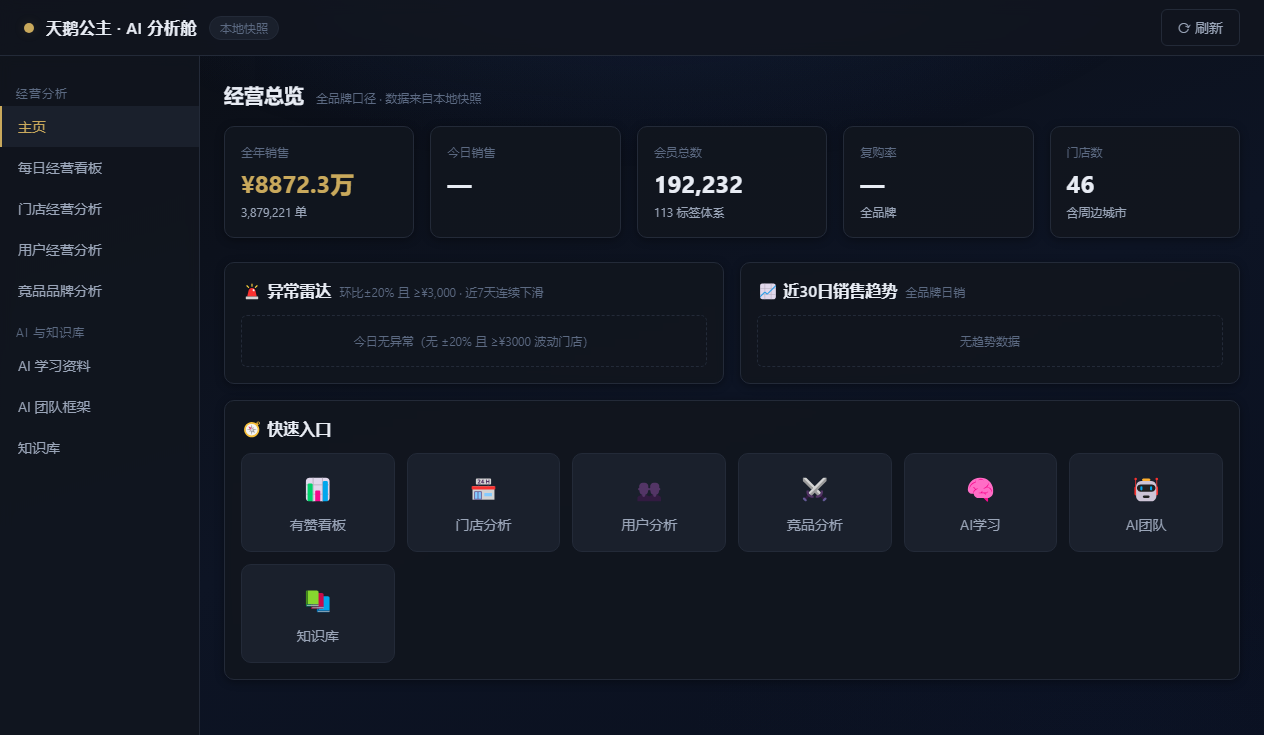
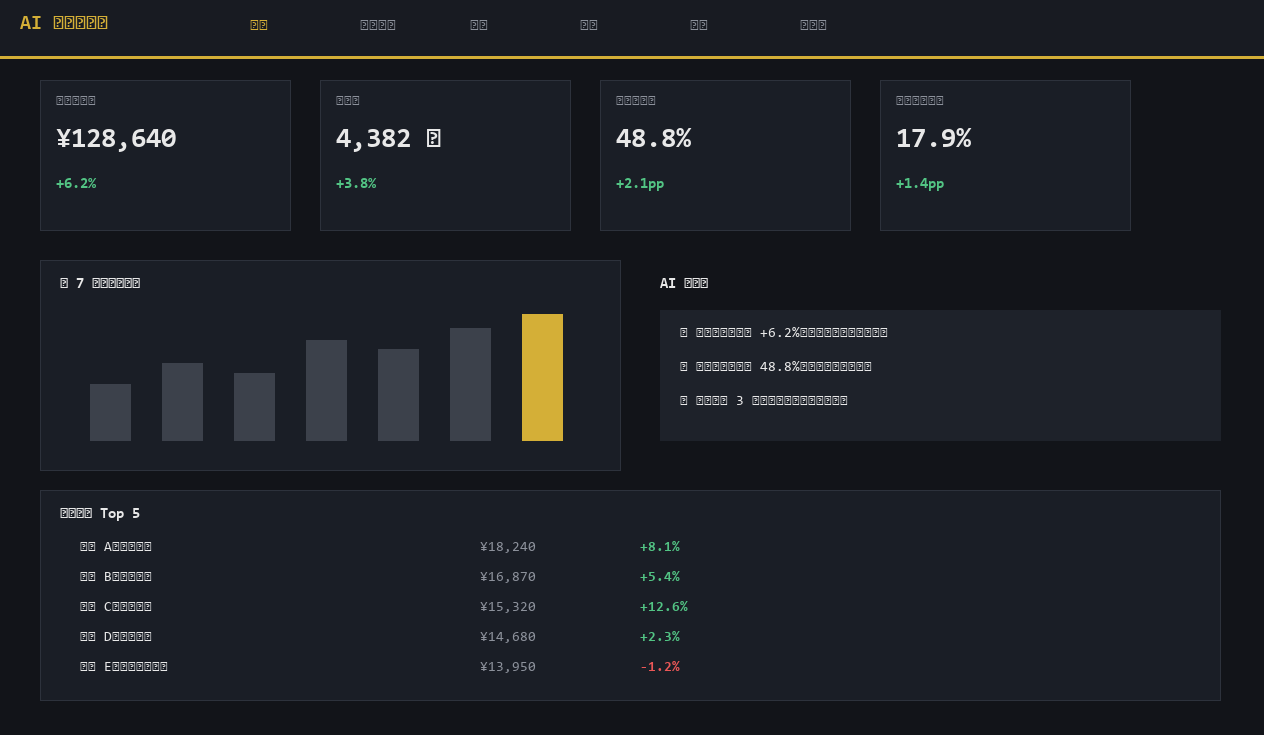
docs: replace demo screenshots with sanitized illustrations (remove real brand/competitor/city data); update captions

diff --git a/index.html b/index.html
@@ -409,29 +409,29 @@
         <div class="section-header">
             <span class="section-tag">LIVE DEMO</span>
             <h2>实际运行效果</h2>
-            <p>终端与桌面端真实截图——不是 PPT 演示，是真在跑的</p>
+            <p>生产工具界面示意（数据已脱敏）——不是 PPT 演示，是每天在跑的系统</p>
         </div>
 
         <div class="demo-grid">
             <div class="demo-shot">
-                <img src="assets/gateway-stats.png" alt="sensenova-gateway stats 真实终端输出">
+                <img src="assets/gateway-stats.png" alt="sensenova-gateway 网关负载示意（数据脱敏）">
                 <div class="demo-caption">
                     <span class="demo-label">sensenova-gateway</span>
-                    <span class="demo-desc">3 账号池化，负载 34.8 / 32.9 / 32.4%，587 次请求成功率 100%</span>
+                    <span class="demo-desc">多账号池化负载均衡示意，587 次请求成功率 100%</span>
                 </div>
             </div>
             <div class="demo-shot">
-                <img src="assets/kb-search.png" alt="kb-cli 检索真实终端输出">
+                <img src="assets/kb-search.png" alt="知识库检索示意（数据脱敏）">
                 <div class="demo-caption">
-                    <span class="demo-label">kb-cli</span>
-                    <span class="demo-desc">关键词 AND 检索，命中 4 篇，按出现次数排序</span>
+                    <span class="demo-label">知识库检索（llm-wiki / kb-cli）</span>
+                    <span class="demo-desc">关键词 AND 检索 + wiki 关联推荐示意</span>
                 </div>
             </div>
             <div class="demo-shot">
-                <img src="assets/cockpit-home.png" alt="AI 经营驾驶舱 真实桌面端截图">
+                <img src="assets/cockpit-home.png" alt="AI 经营驾驶舱 界面示意（数据脱敏）">
                 <div class="demo-caption">
                     <span class="demo-label">AI 经营驾驶舱</span>
-                    <span class="demo-desc">45 家门店每日打开的生产工具：经营数据 → AI 结论卡</span>
+                    <span class="demo-desc">45 家门店使用的经营驾驶舱界面示意：KPI → AI 结论卡</span>
                 </div>
             </div>
         </div>
